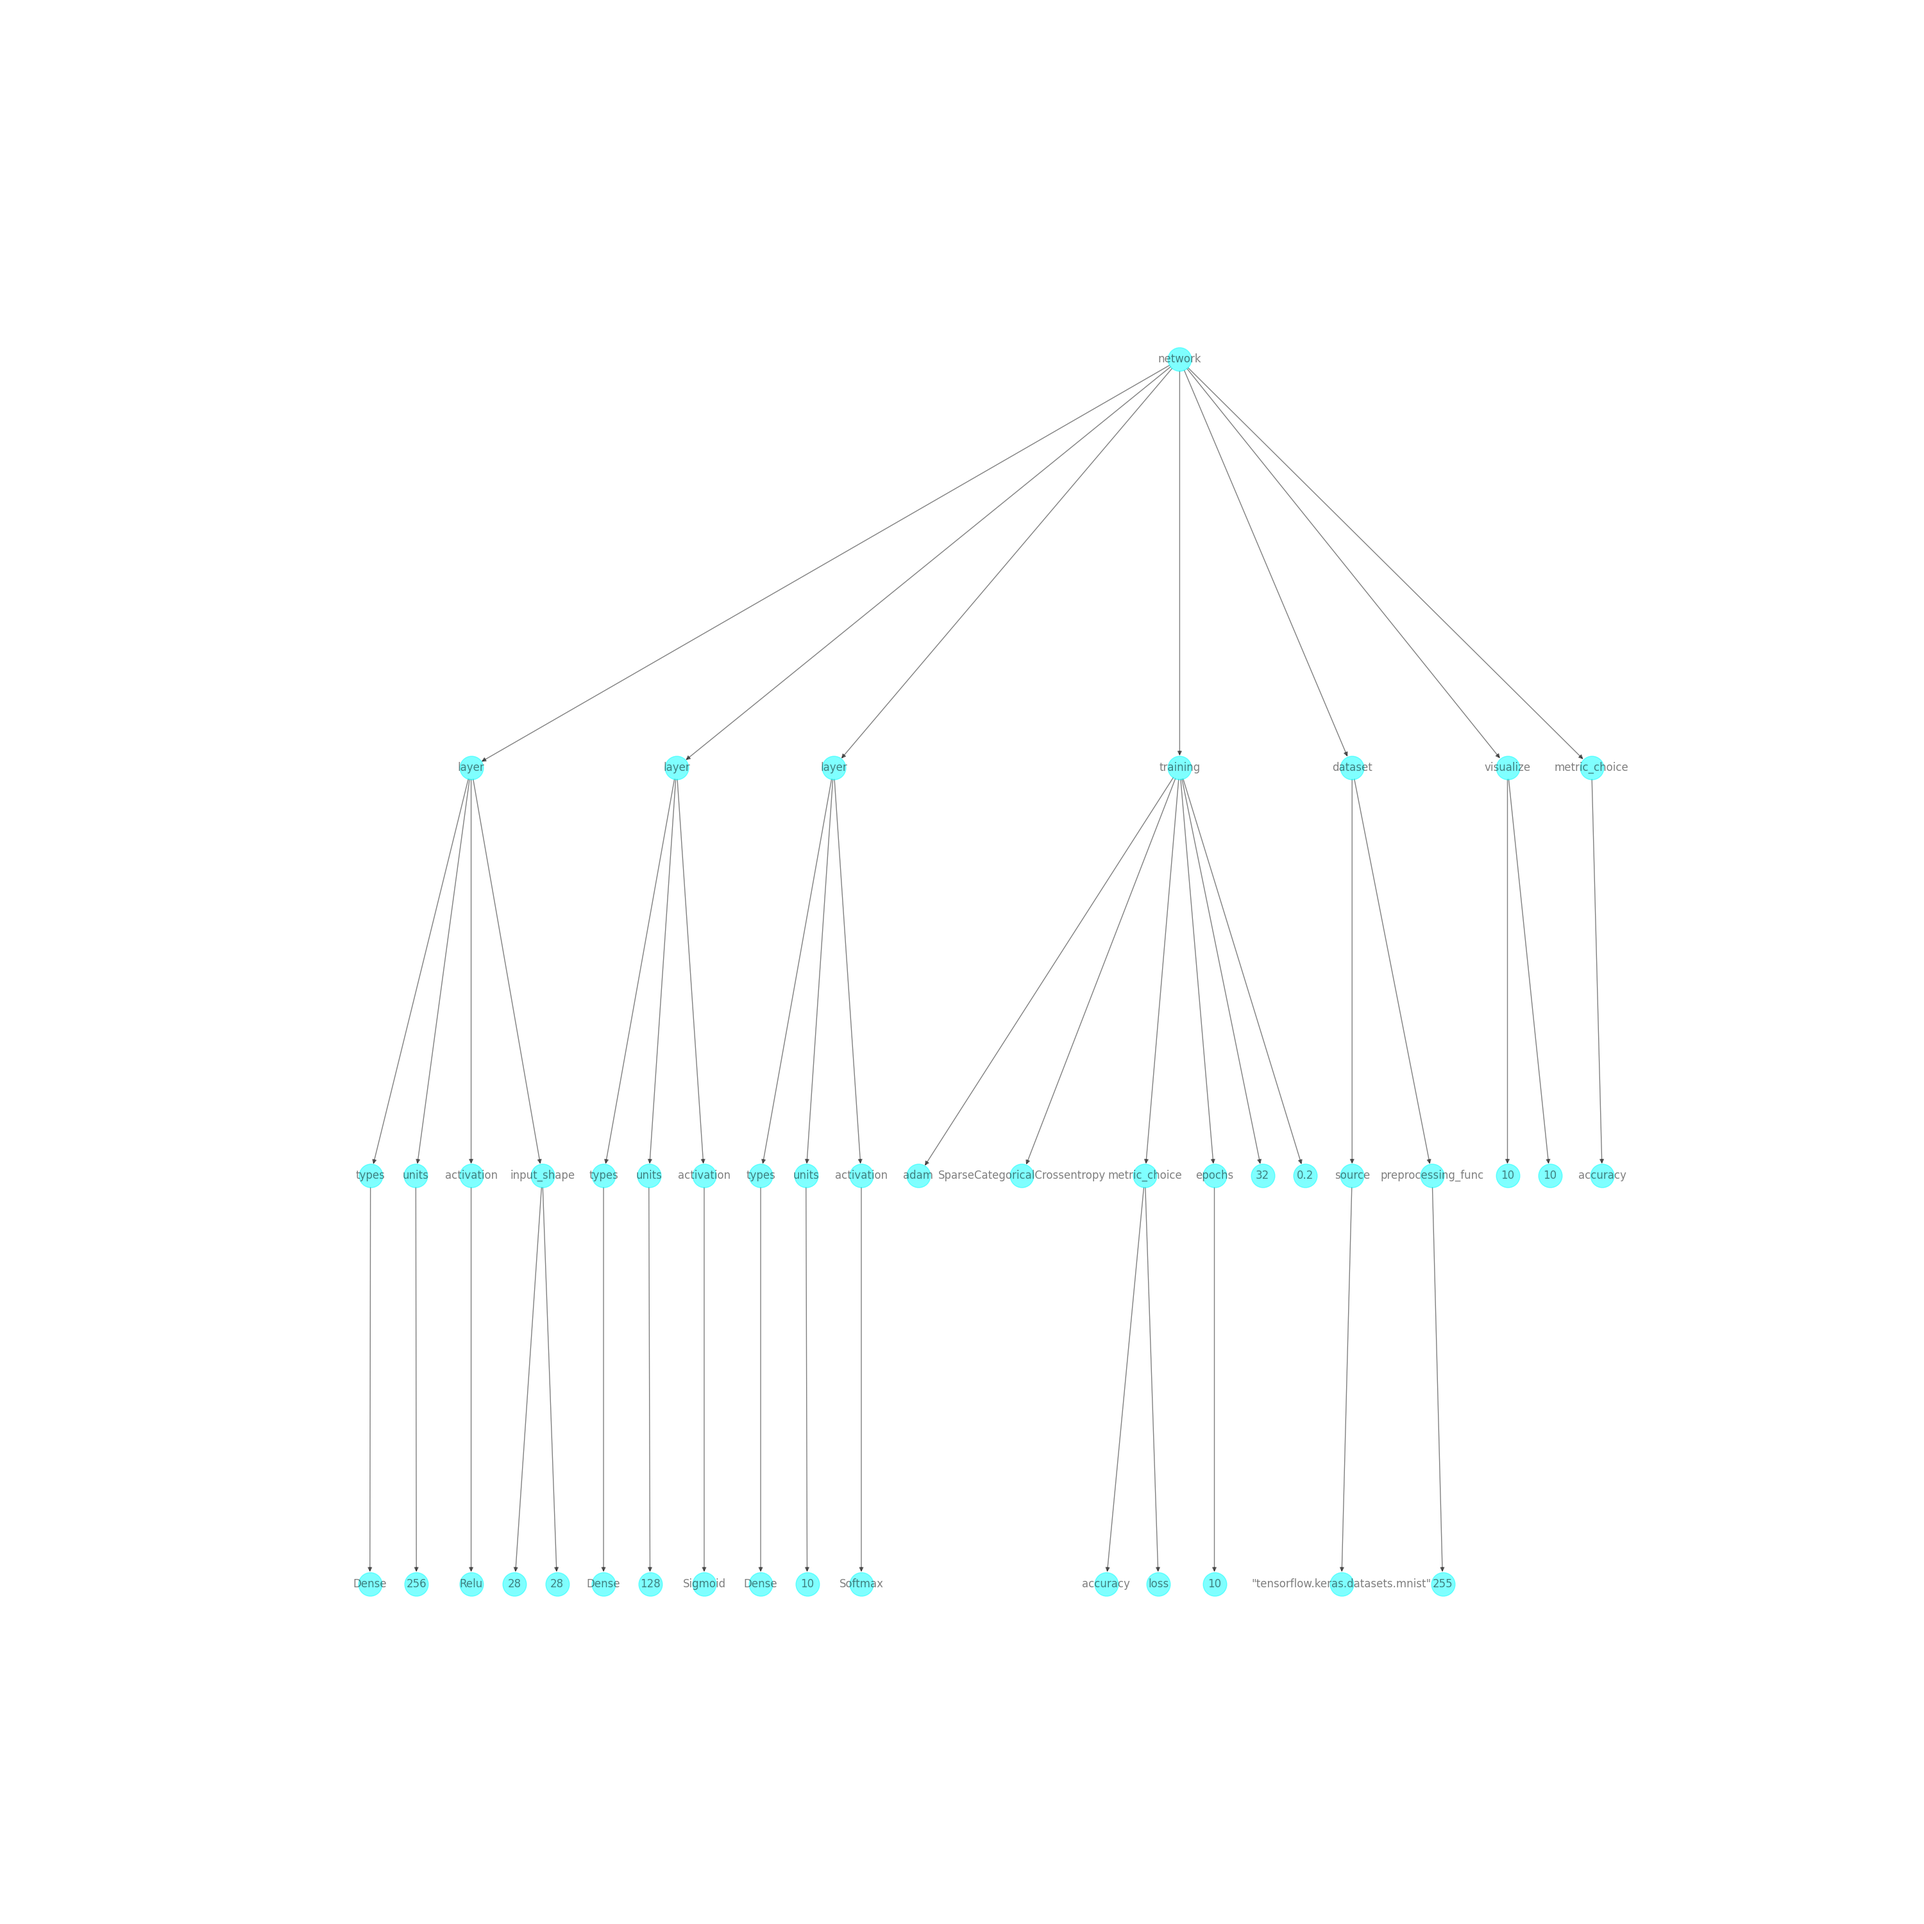
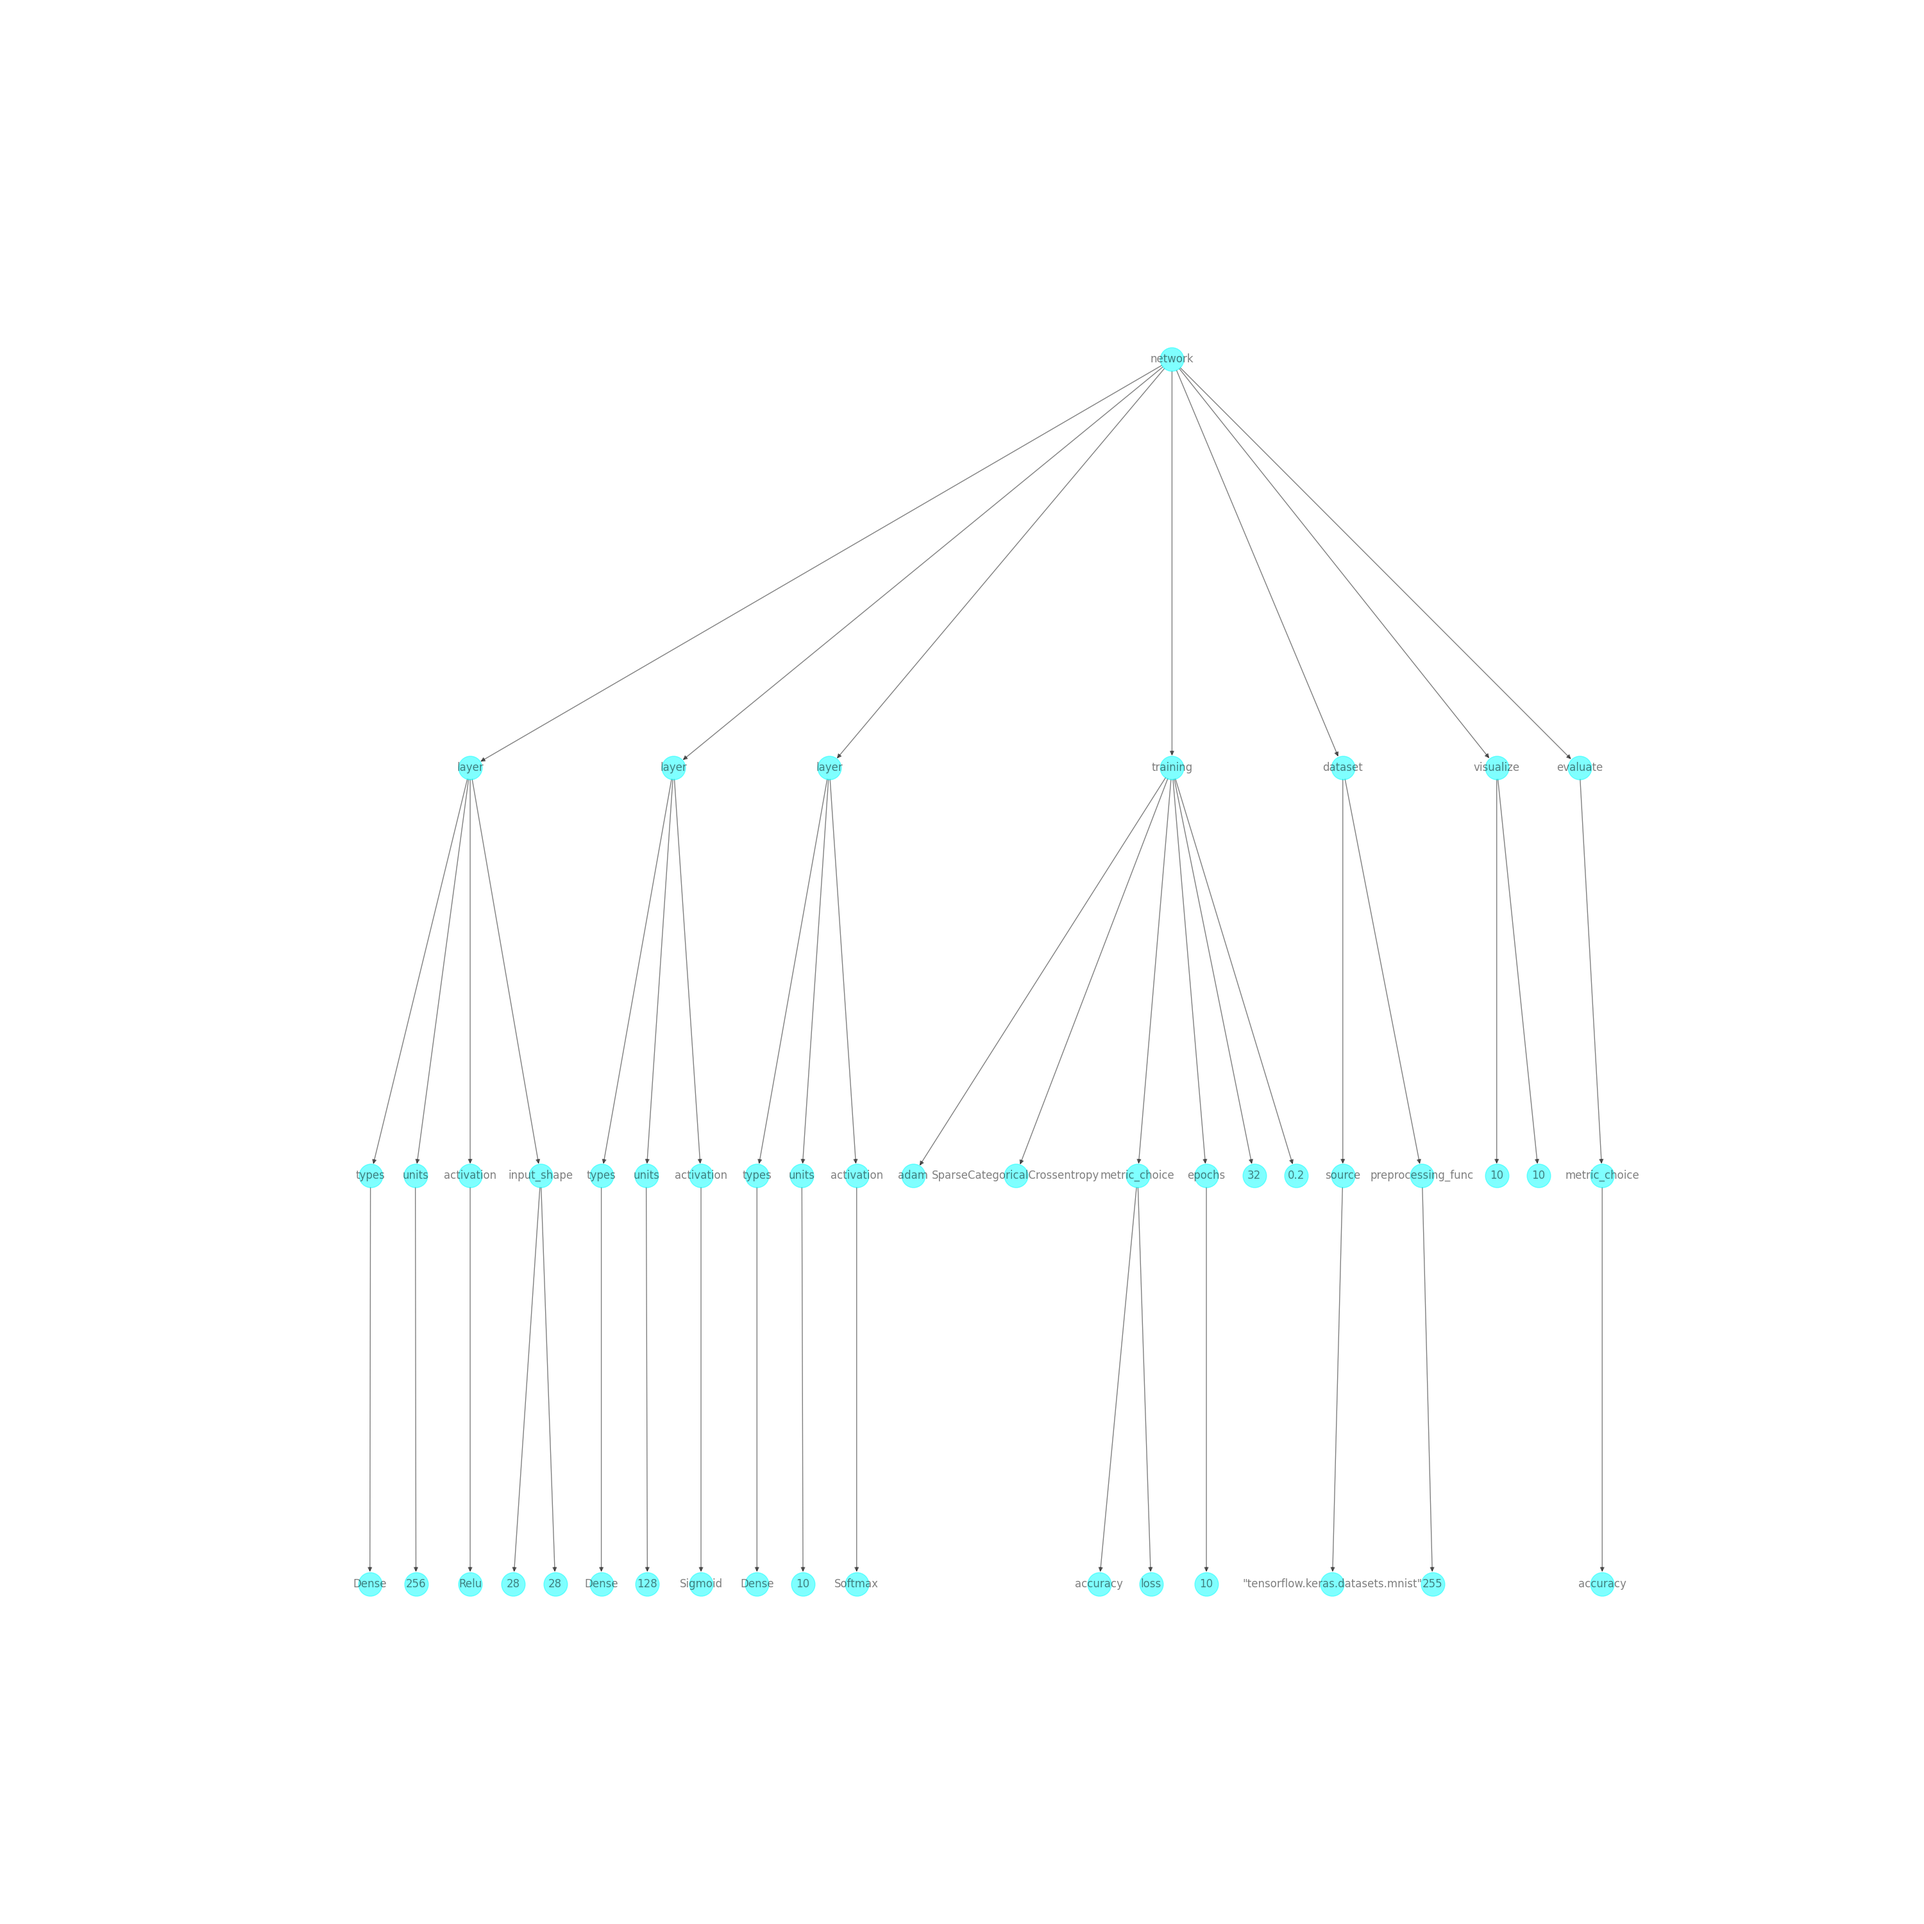
Fix

diff --git a/Code/deepDSLCustomLinstener.py b/Code/deepDSLCustomLinstener.py
@@ -7,7 +7,7 @@ from gen.deepDSLParser import deepDSLParser
 class DeepDSLCustomListener(deepDSLListener):
     def __init__(self, rule_names):
         self.overridden_rules = ['layer', 'types', 'units','training', 'activation',
-                                 'visualize', 'input_shape', 'metric_choice' ,'epochs',
+                                 'visualize', 'input_shape', 'evaluate', 'metric_choice' ,'epochs',
                                  'dataset', 'source', 'preprocessing_func']
         self.rule_names = rule_names
         self.ast = AST()
@@ -53,4 +53,6 @@ class DeepDSLCustomListener(deepDSLListener):
     def exitEpochs(self,ctx):
         make_ast_subtree(self.ast, ctx, "epochs", keep_node=True)
 
+    def exitEvaluate(self, ctx:deepDSLParser.EvaluateContext):
+        make_ast_subtree(self.ast, ctx, "evaluate", keep_node=True)
 
